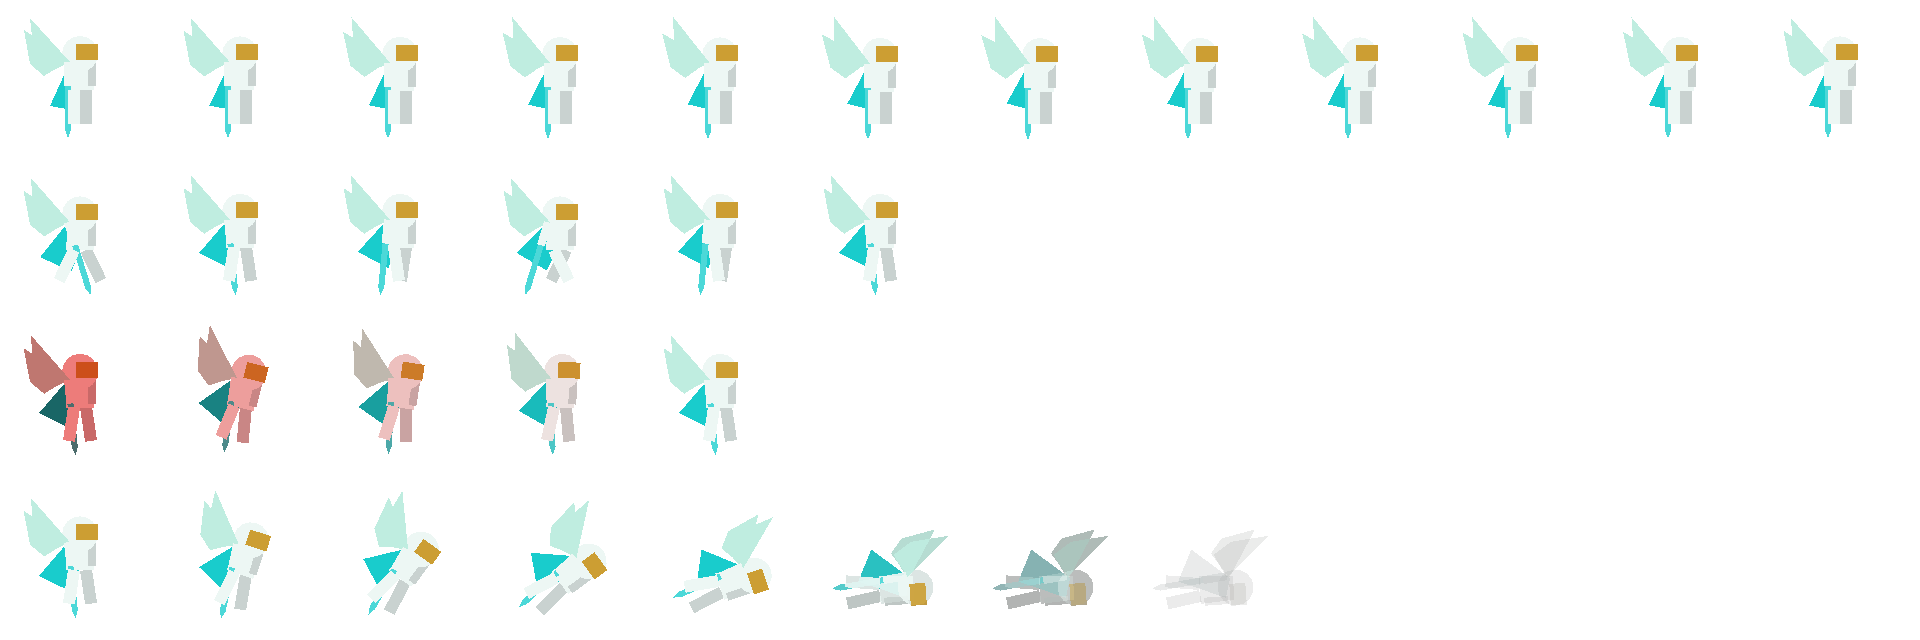
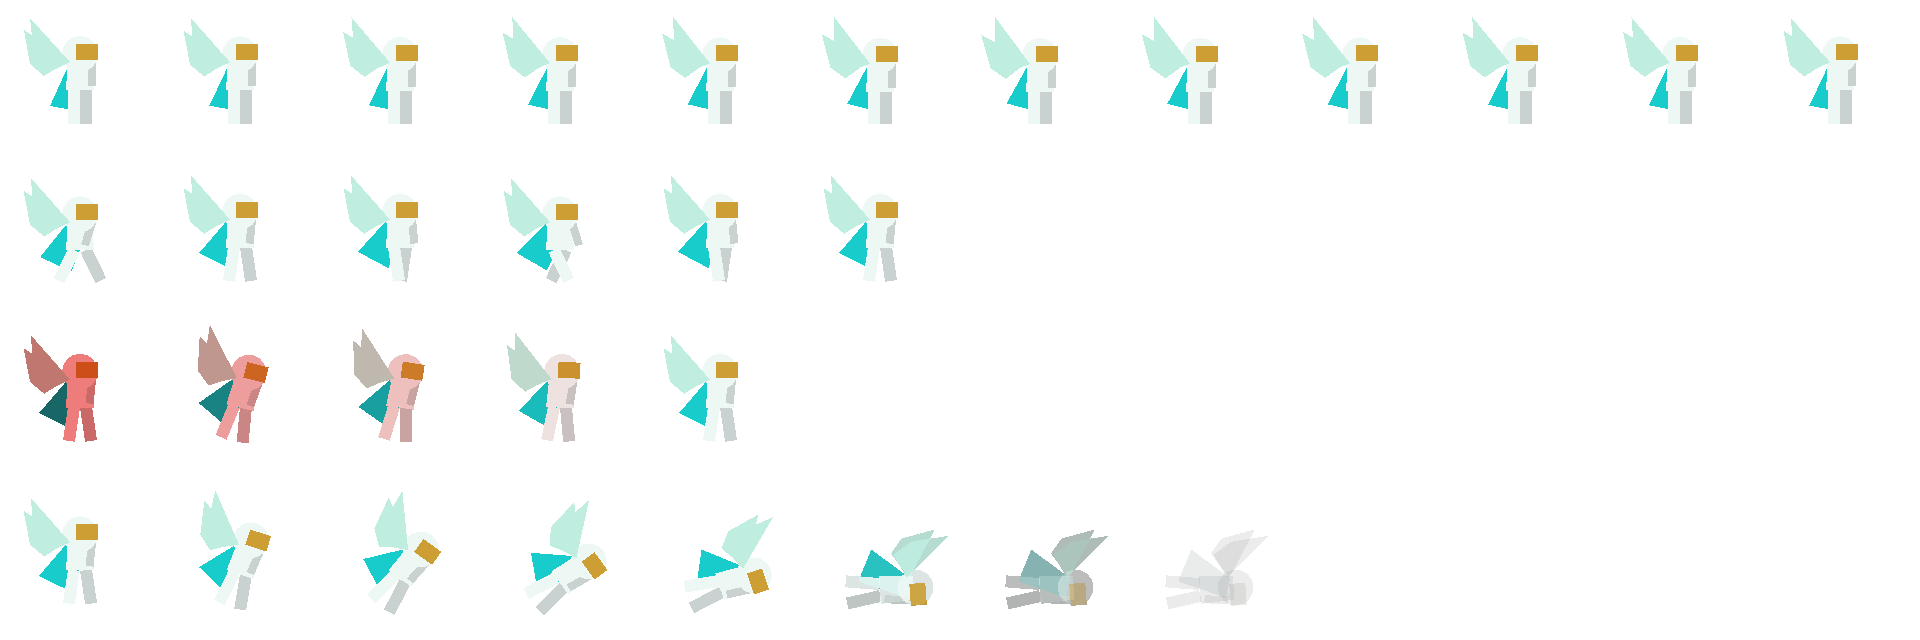
Add live aim-rotated part to VisualsComponent and the rig bake
VisualProfile gains an Aim Part group (scene, pivot, rest angle, behind
body). VisualsComponent rotates it toward aim_direction, mirrors it with
facing, shares the body material, and hides it on death. CutoutRig's
aim_part_path is left out of the bake and exported as <frames>_aim.tscn;
bake_rig.gd --profile writes the bake into a VisualProfile. The test hero
now uses the template bake with its sword arm, checked in ranged_infra_test.

Claude-Session: https://claude.ai/code/session_01RBX7uTaXn1gyDKbVEowYuw

diff --git a/docs/VISUALS_AND_AUDIO.md b/docs/VISUALS_AND_AUDIO.md
@@ -96,8 +96,12 @@ hand-drawn frames.
    - **Fps** is both the sampling and playback rate. Looping animations
      (Loop Mode on) repeat; the others are one-shots, as the body expects.
    - **Bake Scale** lets you draw big and bake small.
-   - Parts in the `bake_hidden` group are left out of the bake, for a
-     piece that will stay a live node (an arm that aims).
+   - **Aim Part Path** names a live part (the weapon arm) that turns toward
+     the aim in game instead of being baked. Its origin is the pivot (put
+     the node at the shoulder) and **Aim Part Rest Angle** is the way its
+     art points at rotation 0 (90 = hanging down). The template's
+     `ArmFront` + `Sword` is one.
+   - Other parts in the `bake_hidden` group are also left out of the bake.
 3. **Bake** (needs a renderer, so not `--headless`):
    ```
    godot --script res://tools/visuals/bake_rig.gd -- res://heroes/<name>/art/<name>_rig.tscn
@@ -105,10 +109,23 @@ hand-drawn frames.
    xvfb-run -a godot --rendering-driver opengl3 --script res://tools/visuals/bake_rig.gd -- res://heroes/<name>/art/<name>_rig.tscn
    godot --headless --import
    ```
-   It writes `<name>_rig_frames.png` (one row per animation) and
-   `<name>_rig_frames.tres`. Pass a second path to choose where.
+   It writes `<name>_rig_frames.png` (one row per animation),
+   `<name>_rig_frames.tres`, and `<name>_rig_frames_aim.tscn` if the rig
+   has an aim part. Pass a second path to choose where. Add
+   `--profile res://heroes/<name>/<name>_visuals.tres` to point that
+   VisualProfile at the bake (Sprite Frames plus the Aim Part fields).
 4. **Use it:** in the hero's VisualProfile set **Sprite Frames** to the
-   `.tres`, **Body Tint** alpha to 0, and adjust **Body Scale / Offset**.
+   `.tres` (or use `--profile`), **Body Tint** alpha to 0, and adjust
+   **Body Scale / Offset**.
+
+**The live aim part** (VisualProfile > Aim Part): `VisualsComponent` puts
+the **Aim Part** scene at **Aim Part Pivot** (relative to the body, facing
+right, scaled by Body Scale) and rotates it toward the owner's
+`aim_direction` every frame. Facing left mirrors the pivot and the part along
+with the body. It shares the body's material, so hit flashes and status tints
+reach it; **Aim Part Behind Body** draws it under the body. It hides on death
+(the baked death has no arm) and returns on revive. The test hero
+(F1 > Play as > Ranged Test) uses the template bake with its sword arm.
 
 Re-bake whenever the art or the animations change; commit the rig, the PNG
 and the `.tres` together. The template itself is generated by

diff --git a/docs/HOW_TO_ADD_A_HERO.md b/docs/HOW_TO_ADD_A_HERO.md
@@ -130,6 +130,7 @@ For each slot in the definition's `abilities` dictionary, point at an
 | shots that ricochet off walls | `ProjectileData.wall_bounces` | none |
 | shorter knockbacks and pulls on someone | `StatusEffect.DISPLACEMENT_TAKEN` in `stat_multipliers` (0.6 = 40% shorter) | none |
 | an animated body from layered art (cutout rig baked to sprite frames) | copy `resources/visuals/rig_template/rig_template.tscn` (`CutoutRig`), bake with `tools/visuals/bake_rig.gd`, set the result as `VisualProfile.sprite_frames` (see docs/VISUALS_AND_AUDIO.md) | none |
+| a weapon arm that turns toward the aim on a baked body | `CutoutRig.aim_part_path` (exported by the bake) + `VisualProfile` Aim Part group; `bake_rig.gd --profile` fills it in | none |
 | a second form: swap a slot to another ability and back (each keeps its own cooldown) | `AbilityController.swap_slot(slot_id, data)` / `restore_slot(slot_id)` / `is_slot_swapped`; the swapped-out ability goes dormant (`Ability.is_dormant()`) | a small script (decides when) |
 | hold to raise a shield/cloak on your aim arc that eats projectiles and has its own HP | `BlockerData` + `BlockerAbility` (a `FrontalBlocker`: HP `ScalingValue`, regen, break, slots allowed while raised, raised/lowered statuses) | none |
 | lifesteal / a drain | `AbilityData.lifesteal` (share of this ability's damage dealt that heals the caster) | none |
